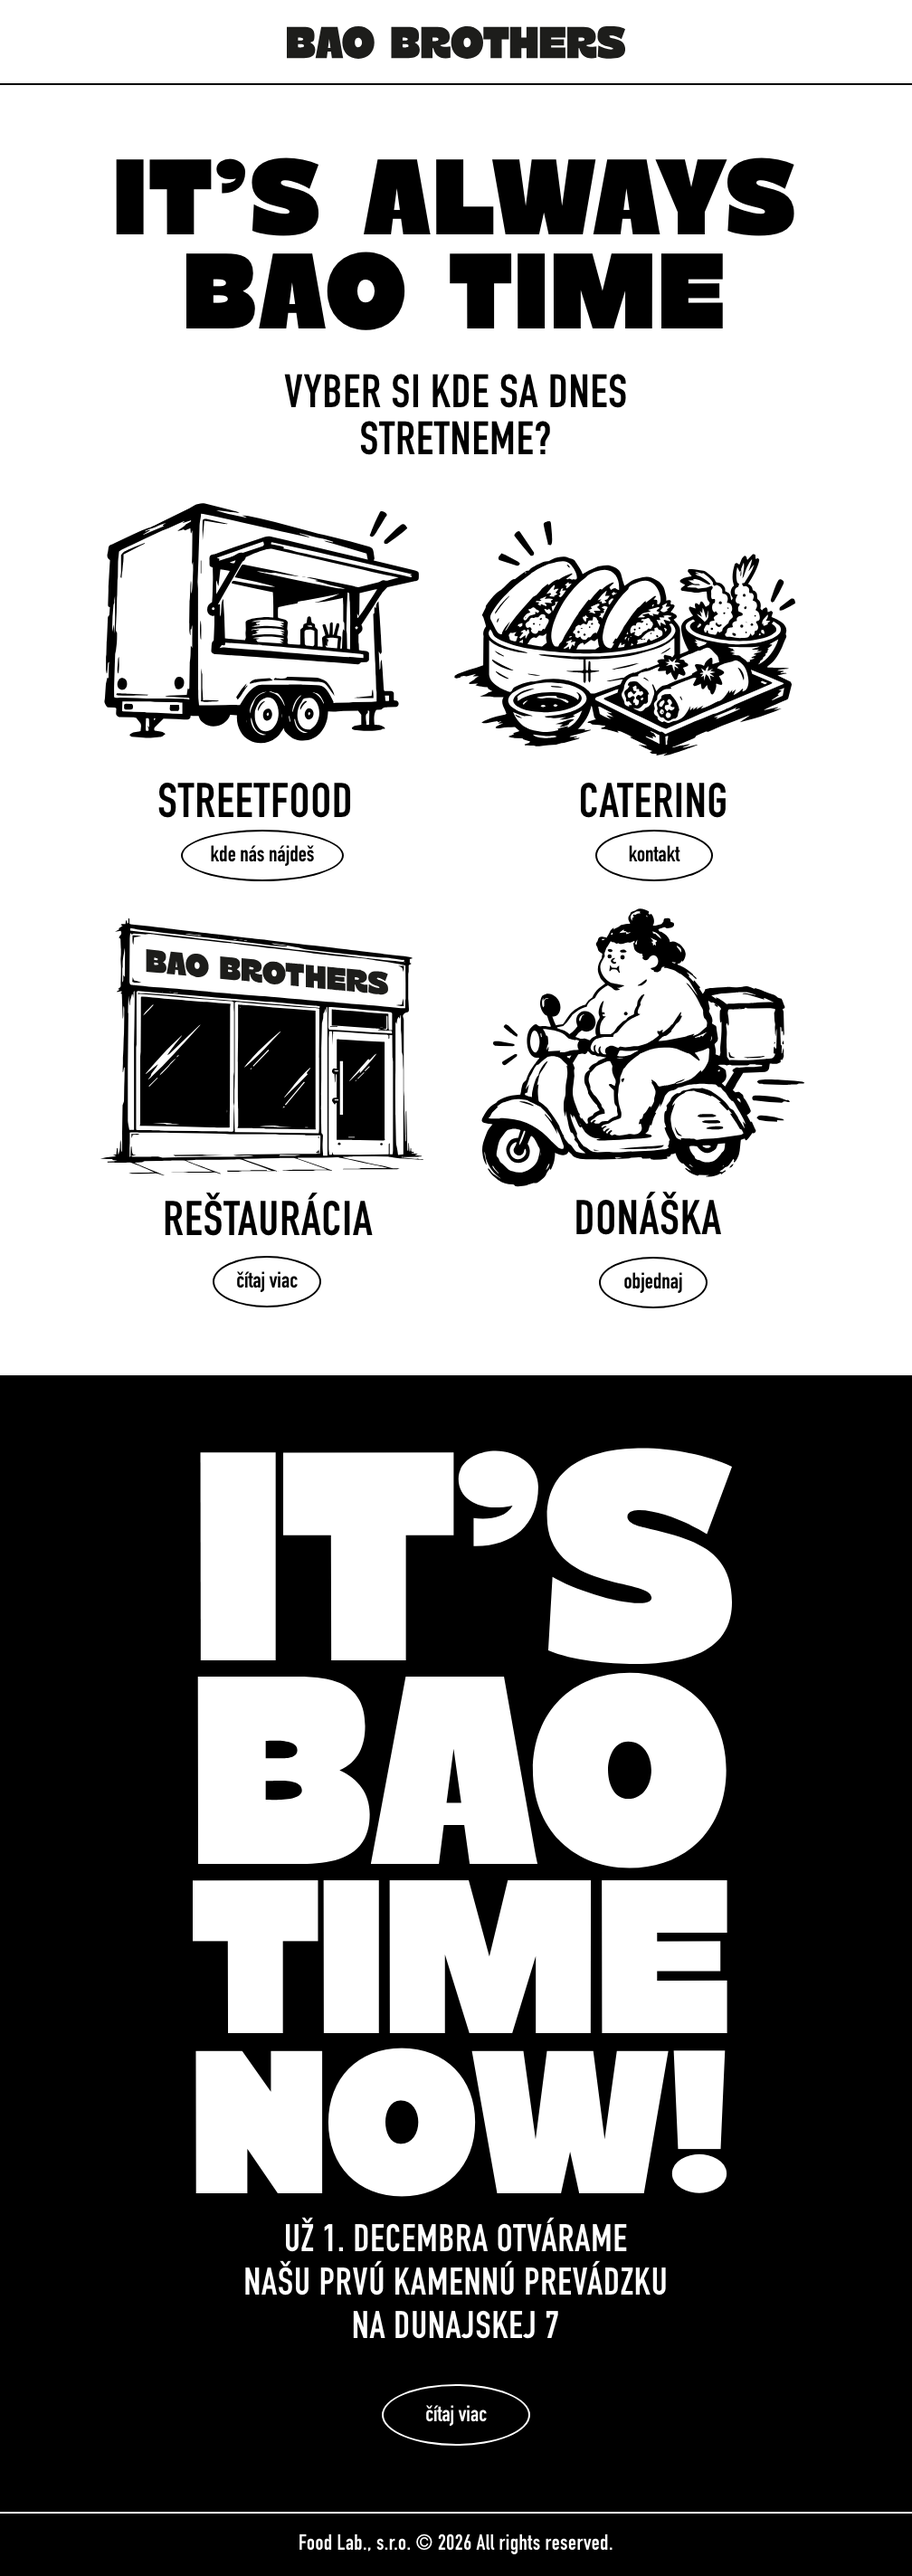
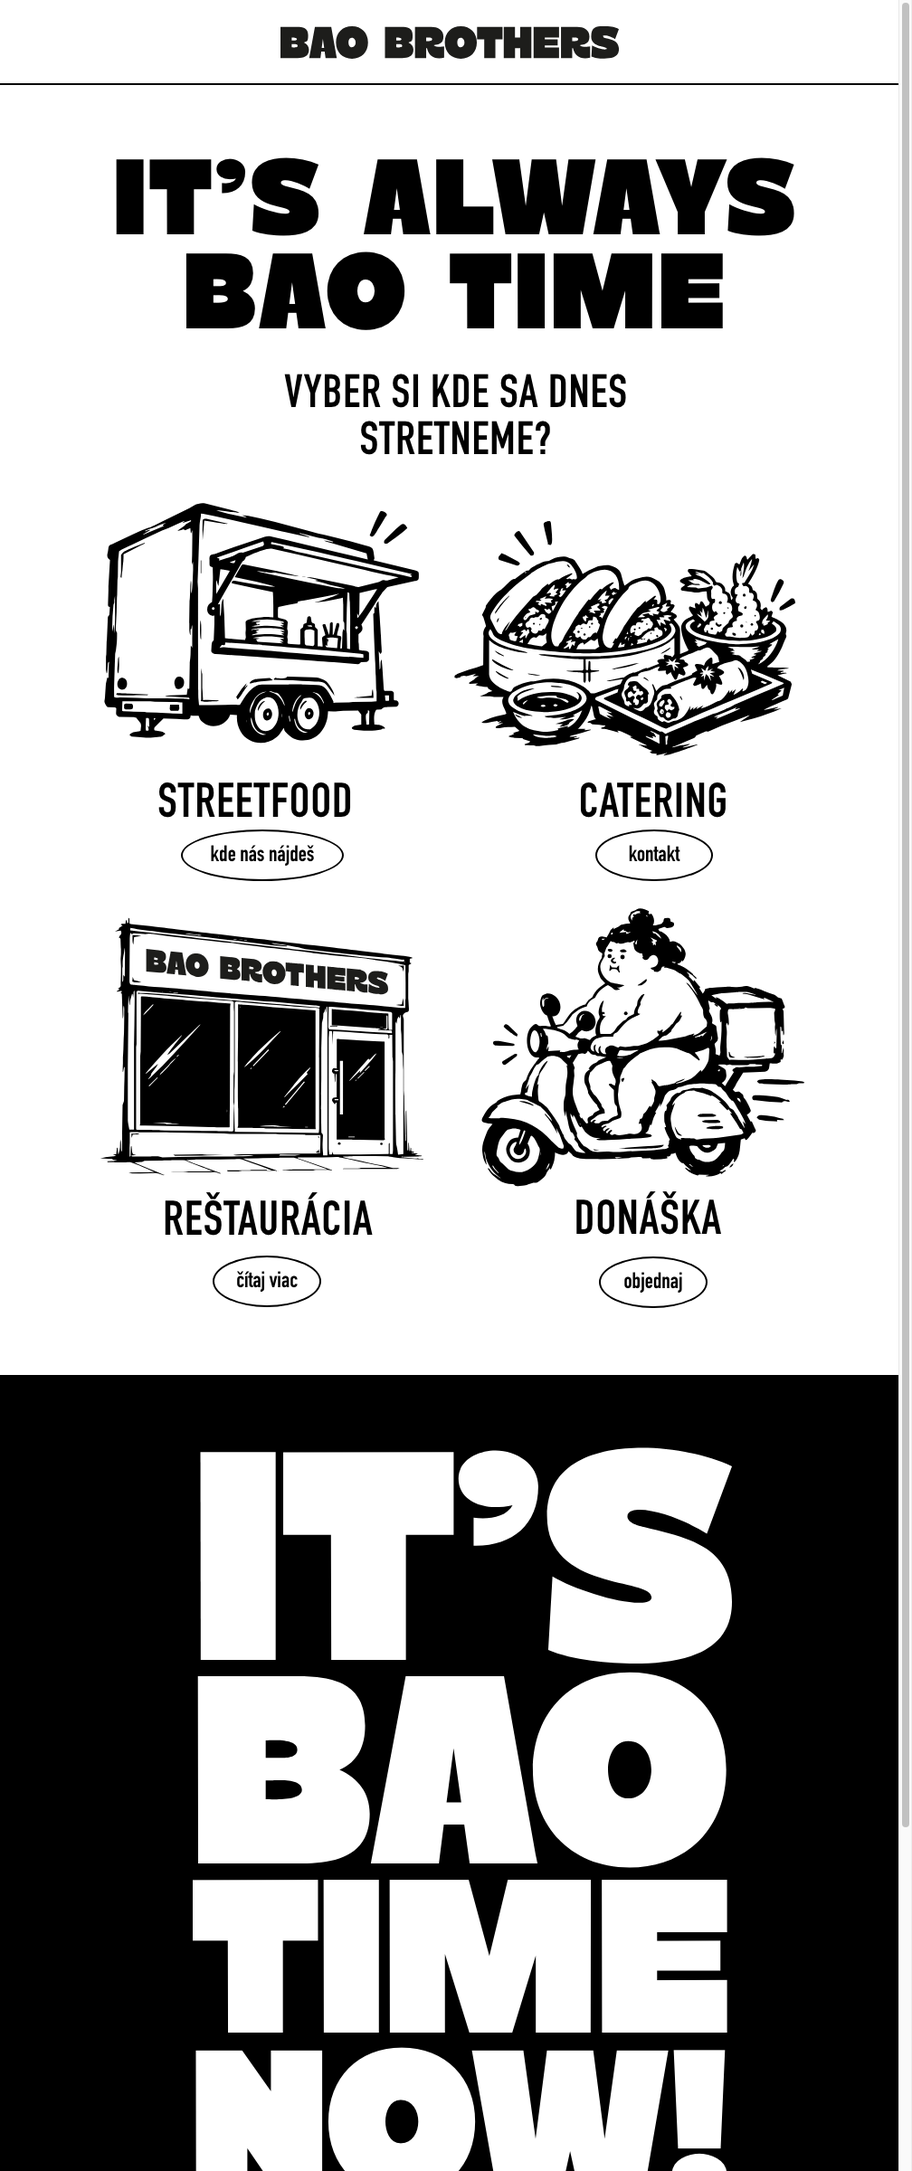
Fix bottom of page layout and button positioning on mobile

diff --git a/css/style.css b/css/style.css
@@ -494,7 +494,7 @@ html, body {
     padding: 0 20px;
   }
   .brand-logo-link, .hero-headline, .hero-subheadline,
-  .dark-headline, .announcement-text, .copyright-text,
+  .dark-headline, .announcement-text, .dark-btn-wrapper, .copyright-text,
   .card-streetfood .illustration-link, .card-streetfood .service-title,
   .card-catering .illustration-link, .card-catering .service-title,
   .card-restauracia .illustration-link, .card-restauracia .service-title,
@@ -671,30 +671,51 @@ html, body {
     max-width: 650px;
   }
   .dark-btn-wrapper {
-    display: flex;
-    justify-content: center;
-    align-items: center;
-    width: 100%;
-    margin: 0 auto;
+    position: static !important;
+    transform: none !important;
+    display: flex !important;
+    justify-content: center !important;
+    align-items: center !important;
+    width: 100% !important;
+    margin: 0 auto 36px auto !important;
   }
   .bao-btn-white {
     width: 164px !important;
     height: 68px !important;
+    border: 2.5px solid var(--color-white) !important;
     border-radius: 50% !important;
     font-size: 24.5px !important;
     padding: 4px 10px 0 10px !important;
     margin: 0 auto !important;
+    display: inline-flex !important;
+    align-items: center !important;
+    justify-content: center !important;
+    text-align: center !important;
   }
   .footer-divider {
-    position: static;
+    width: 100% !important;
+    height: 2px !important;
+    background-color: var(--color-white) !important;
+    display: block !important;
+    position: static !important;
+    margin: 0 !important;
   }
   .site-footer {
-    height: auto;
-    padding: 24px 16px;
+    height: auto !important;
+    padding: 24px 16px !important;
+    display: flex !important;
+    justify-content: center !important;
+    align-items: center !important;
+    text-align: center !important;
+    position: relative !important;
   }
   .copyright-text {
-    position: static;
-    font-size: clamp(15px, 2.8vw, 20px);
+    position: static !important;
+    font-size: clamp(15px, 2.8vw, 20px) !important;
+    font-weight: 700 !important;
+    color: var(--color-white) !important;
+    text-align: center !important;
+    margin: 0 auto !important;
   }
 }
 
@@ -819,7 +840,8 @@ html, body {
   }
   .section-dark {
     padding-top: 48px;
-    padding-bottom: 48px;
+    padding-bottom: 36px;
+    height: auto !important;
   }
   .dark-headline {
     margin-bottom: 28px;
@@ -844,22 +866,49 @@ html, body {
     margin-right: auto !important;
   }
   .dark-btn-wrapper {
-    display: flex;
-    justify-content: center;
-    align-items: center;
-    margin: 0 auto;
-    width: 100%;
+    position: static !important;
+    transform: none !important;
+    display: flex !important;
+    justify-content: center !important;
+    align-items: center !important;
+    margin: 0 auto 24px auto !important;
+    width: 100% !important;
   }
   .bao-btn-white {
     width: 164px !important;
     height: 68px !important;
+    border: 2.5px solid var(--color-white) !important;
     border-radius: 50% !important;
     font-size: 24.5px !important;
     padding: 4px 10px 0 10px !important;
     margin: 0 auto !important;
+    display: inline-flex !important;
+    align-items: center !important;
+    justify-content: center !important;
+    text-align: center !important;
+  }
+  .footer-divider {
+    width: 100% !important;
+    height: 2px !important;
+    background-color: var(--color-white) !important;
+    display: block !important;
+    position: static !important;
+    margin: 0 !important;
+  }
+  .site-footer {
+    height: auto !important;
+    padding: 24px 16px !important;
+    display: flex !important;
+    justify-content: center !important;
+    align-items: center !important;
+    text-align: center !important;
   }
   .copyright-text {
-    font-size: 14px;
-    text-align: center;
+    position: static !important;
+    font-size: 14px !important;
+    font-weight: 700 !important;
+    color: var(--color-white) !important;
+    text-align: center !important;
+    margin: 0 auto !important;
   }
 }
